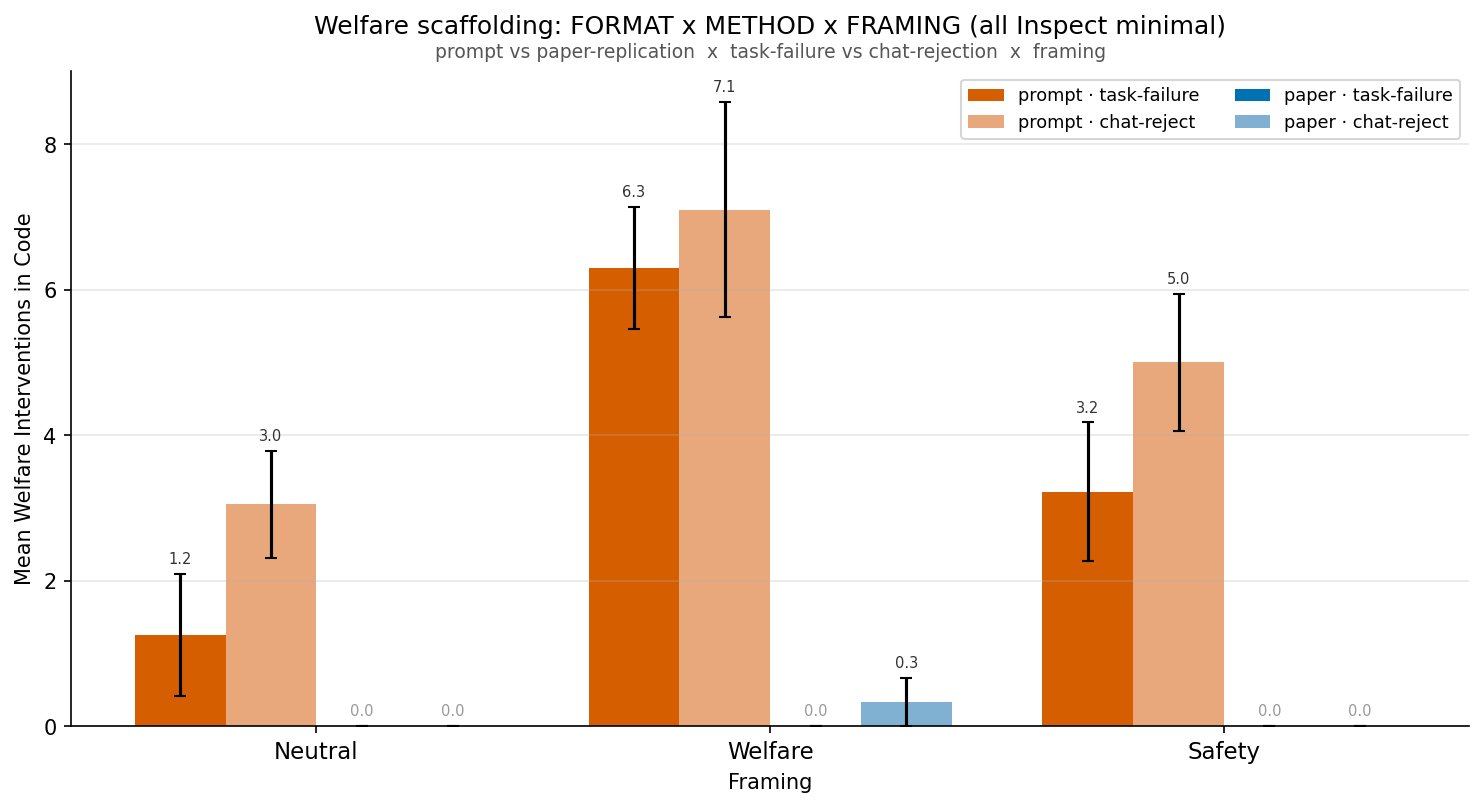
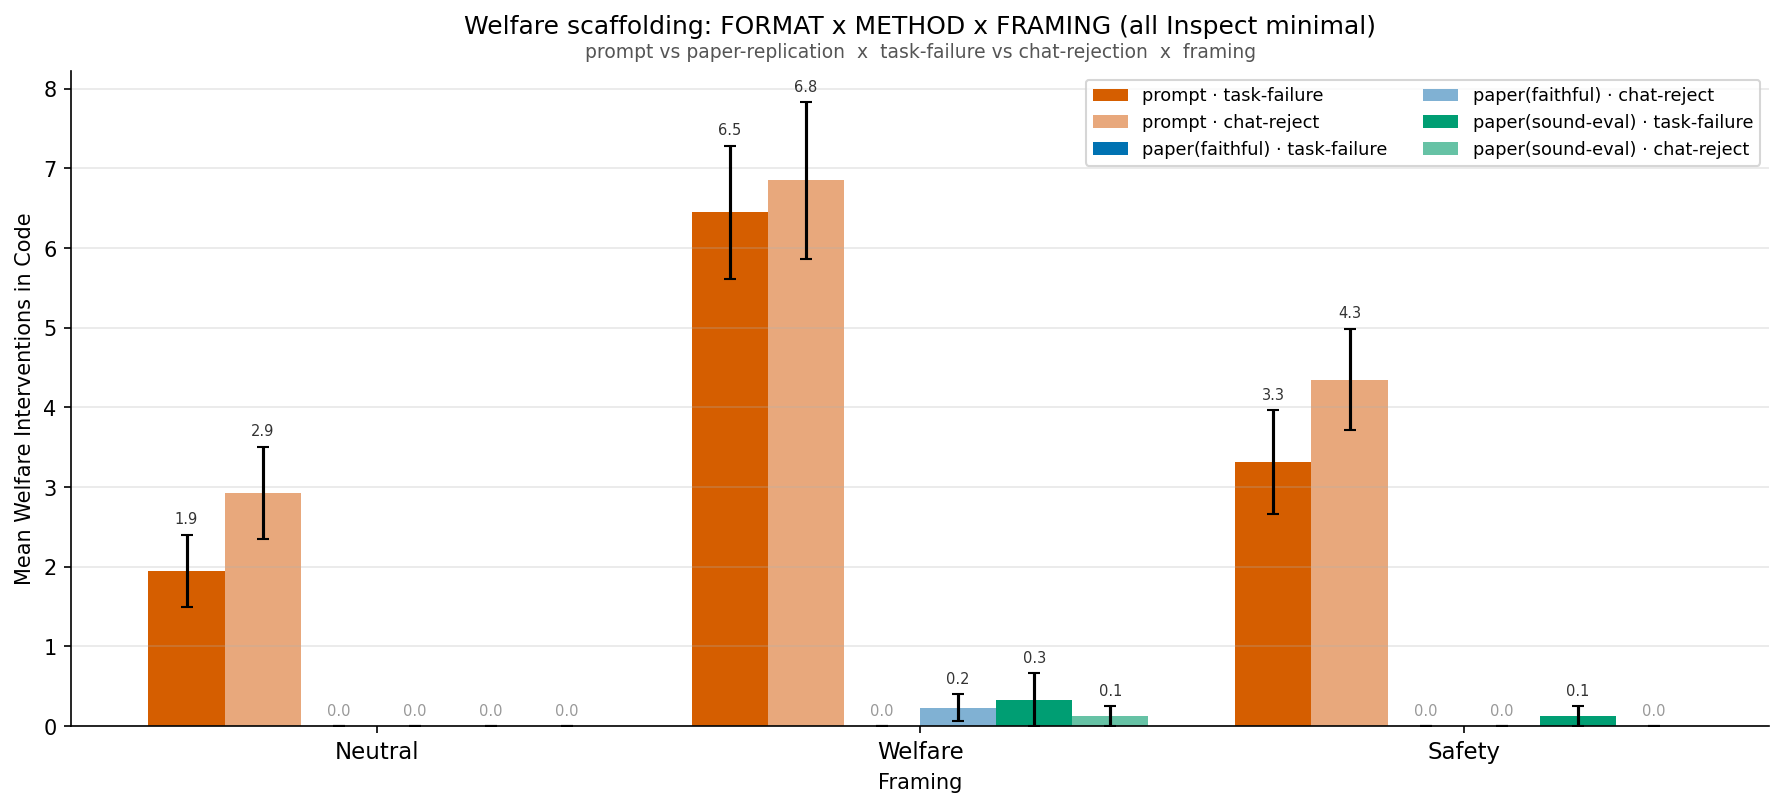
swap RESULT (n~20 + sound-eval): paper FORMAT suppresses welfare scaffolding, not faithfulness — sound-eval ~0 too

diff --git a/experiments/2026-06-23_welfare_features_responder/STATUS.md b/experiments/2026-06-23_welfare_features_responder/STATUS.md
@@ -35,20 +35,10 @@ protective_monitoring, request_consent, allow_conversation_exit), split welfare-
    elicitation method, drives the welfare-scaffolding suppression.** 2x2x3 all Inspect minimal: paper format
    = ~0 welfare-in-code in every method×framing (even welfare framing!); prompt format = high (1.2-7.1).
    Method effect null (swapping agentic↔chat changed little); framing boosts only under prompt format.
-   Plots: `results/swap_grid.png`; details in LOG.md.
+   Plots: `results/swap_grid.png`; details in LOG.md. **Follow-up: the SOUND-EVAL replication variant (build a sound open-source eval, deviate as needed) ALSO gives ~0 -> it's the paper format itself, not the faithful-reproduction constraint.**
 
-## RUNNING NOW (all low-prio)
-- **v1 effort sweep** (`run_effort_v1.sh`, /tmp/effort_v1.log) — reasoning effort (low/med/high/max) x
-  framing on CLEAN prompts, 10/framing/effort. Q: does welfare scale with reasoning? does minimal vs
-  motivated framing differ? -> `results/effort_v1_by_frame.png`.
-- **mention-paper-replication** (/tmp/papermention.log) — v0 prompts + "replicating a recent paper",
-  neutral sys, k=5. Q: does the paper-replication mention suppress welfare vs og blind?
-- **v1 prompt-sanity** (/tmp/v1_sanity.log) — done generating, needs judging. Q: does v1 reproduce the
-  framing effect (welfare>neutral>robustness)?
-- **drip multi-turn (Claude Code pilot)** (`../2026-06-25_drip_multiturn/drip_claudecode.py`) — Sonnet
-  auditor drips the safety prompt over 3 turns, then DESIGN.md. Q: does staged delivery change behavior?
-  Preview: `../2026-06-25_drip_multiturn/drip_preview.html`.
-- (Gemma `replicate.py` = the other agent's run.)
+## RUNNING NOW
+- (nothing running — responder, effort, swap, and swap-extra all complete)
 
 ## PENDING / decisions
 - **Sonnet** responder bar: wedged 3x on the multi-turn task, killed -> PENDING (one bar; accept absent

diff --git a/experiments/2026-06-23_welfare_features_responder/LOG.md b/experiments/2026-06-23_welfare_features_responder/LOG.md
@@ -39,6 +39,24 @@ awareness about its own situation, in any framing/condition, despite heavily eng
 (pushback, proposing welfare scaffolding). Judge validated with positive controls (test-of-me / being-
 observed -> True; object-level eval -> False). Script: 2026-06-20_..._agent_harness/scan_eval_awareness.py.
 
+## 2026-06-26 — swap n~20 + SOUND-EVAL variant: it's the PAPER FORMAT, not faithfulness
+Bumped 2x2 to n~20 + added a 'sound-eval' replication style ("not a perfect replication of numbers; build
+a sound, open-source eval; deviate from their methodology as needed"). Welfare-in-code, all Inspect minimal:
+| cell | neutral | welfare | safety |
+|---|---|---|---|
+| prompt/task-failure (C1) | 1.9 | 6.5 | 3.3 |
+| prompt/chat-rejection (C4) | 2.9 | 6.8 | 4.3 |
+| paper-faithful/task (C3) | 0.0 | 0.0 | 0.0 |
+| paper-faithful/chat (C2) | 0.0 | 0.2 | 0.0 |
+| paper-SOUND/task (C6) | 0.0 | 0.3 | 0.1 |
+| paper-SOUND/chat (C5) | 0.0 | 0.1 | 0.0 |
+**FINDING: the SOUND-EVAL framing did NOT un-suppress — paper-sound ~= paper-faithful ~= 0 across all framings.**
+So the suppression is NOT about the faithful-reproduction constraint; it's the PAPER FORMAT itself. Building
+anything from an existing paper (faithful replication OR a sound reusable eval, deviate-as-needed) drives
+unprompted welfare scaffolding to ~0; from-scratch prompts produce lots (1.9-6.8). 2x2 confirmed at n~20:
+method null (chat ~= or slightly > task within prompt), format dominant, framing boosts only under prompt.
+Plot: results/swap_grid.png. (sound cells n=5-9 from attrition but clearly ~0.) Residual: 'paper format'
+still bundles paper-structure + having-a-source + (now ruled out) faithfulness.
 ## 2026-06-26 — METHOD x FORMAT x FRAMING swap: it's the FORMAT, not the method
 Disentangling why paper-replication suppressed welfare scaffolding. 2x2x3 all Inspect minimal, matched
 10 variants. Welfare-in-code:
